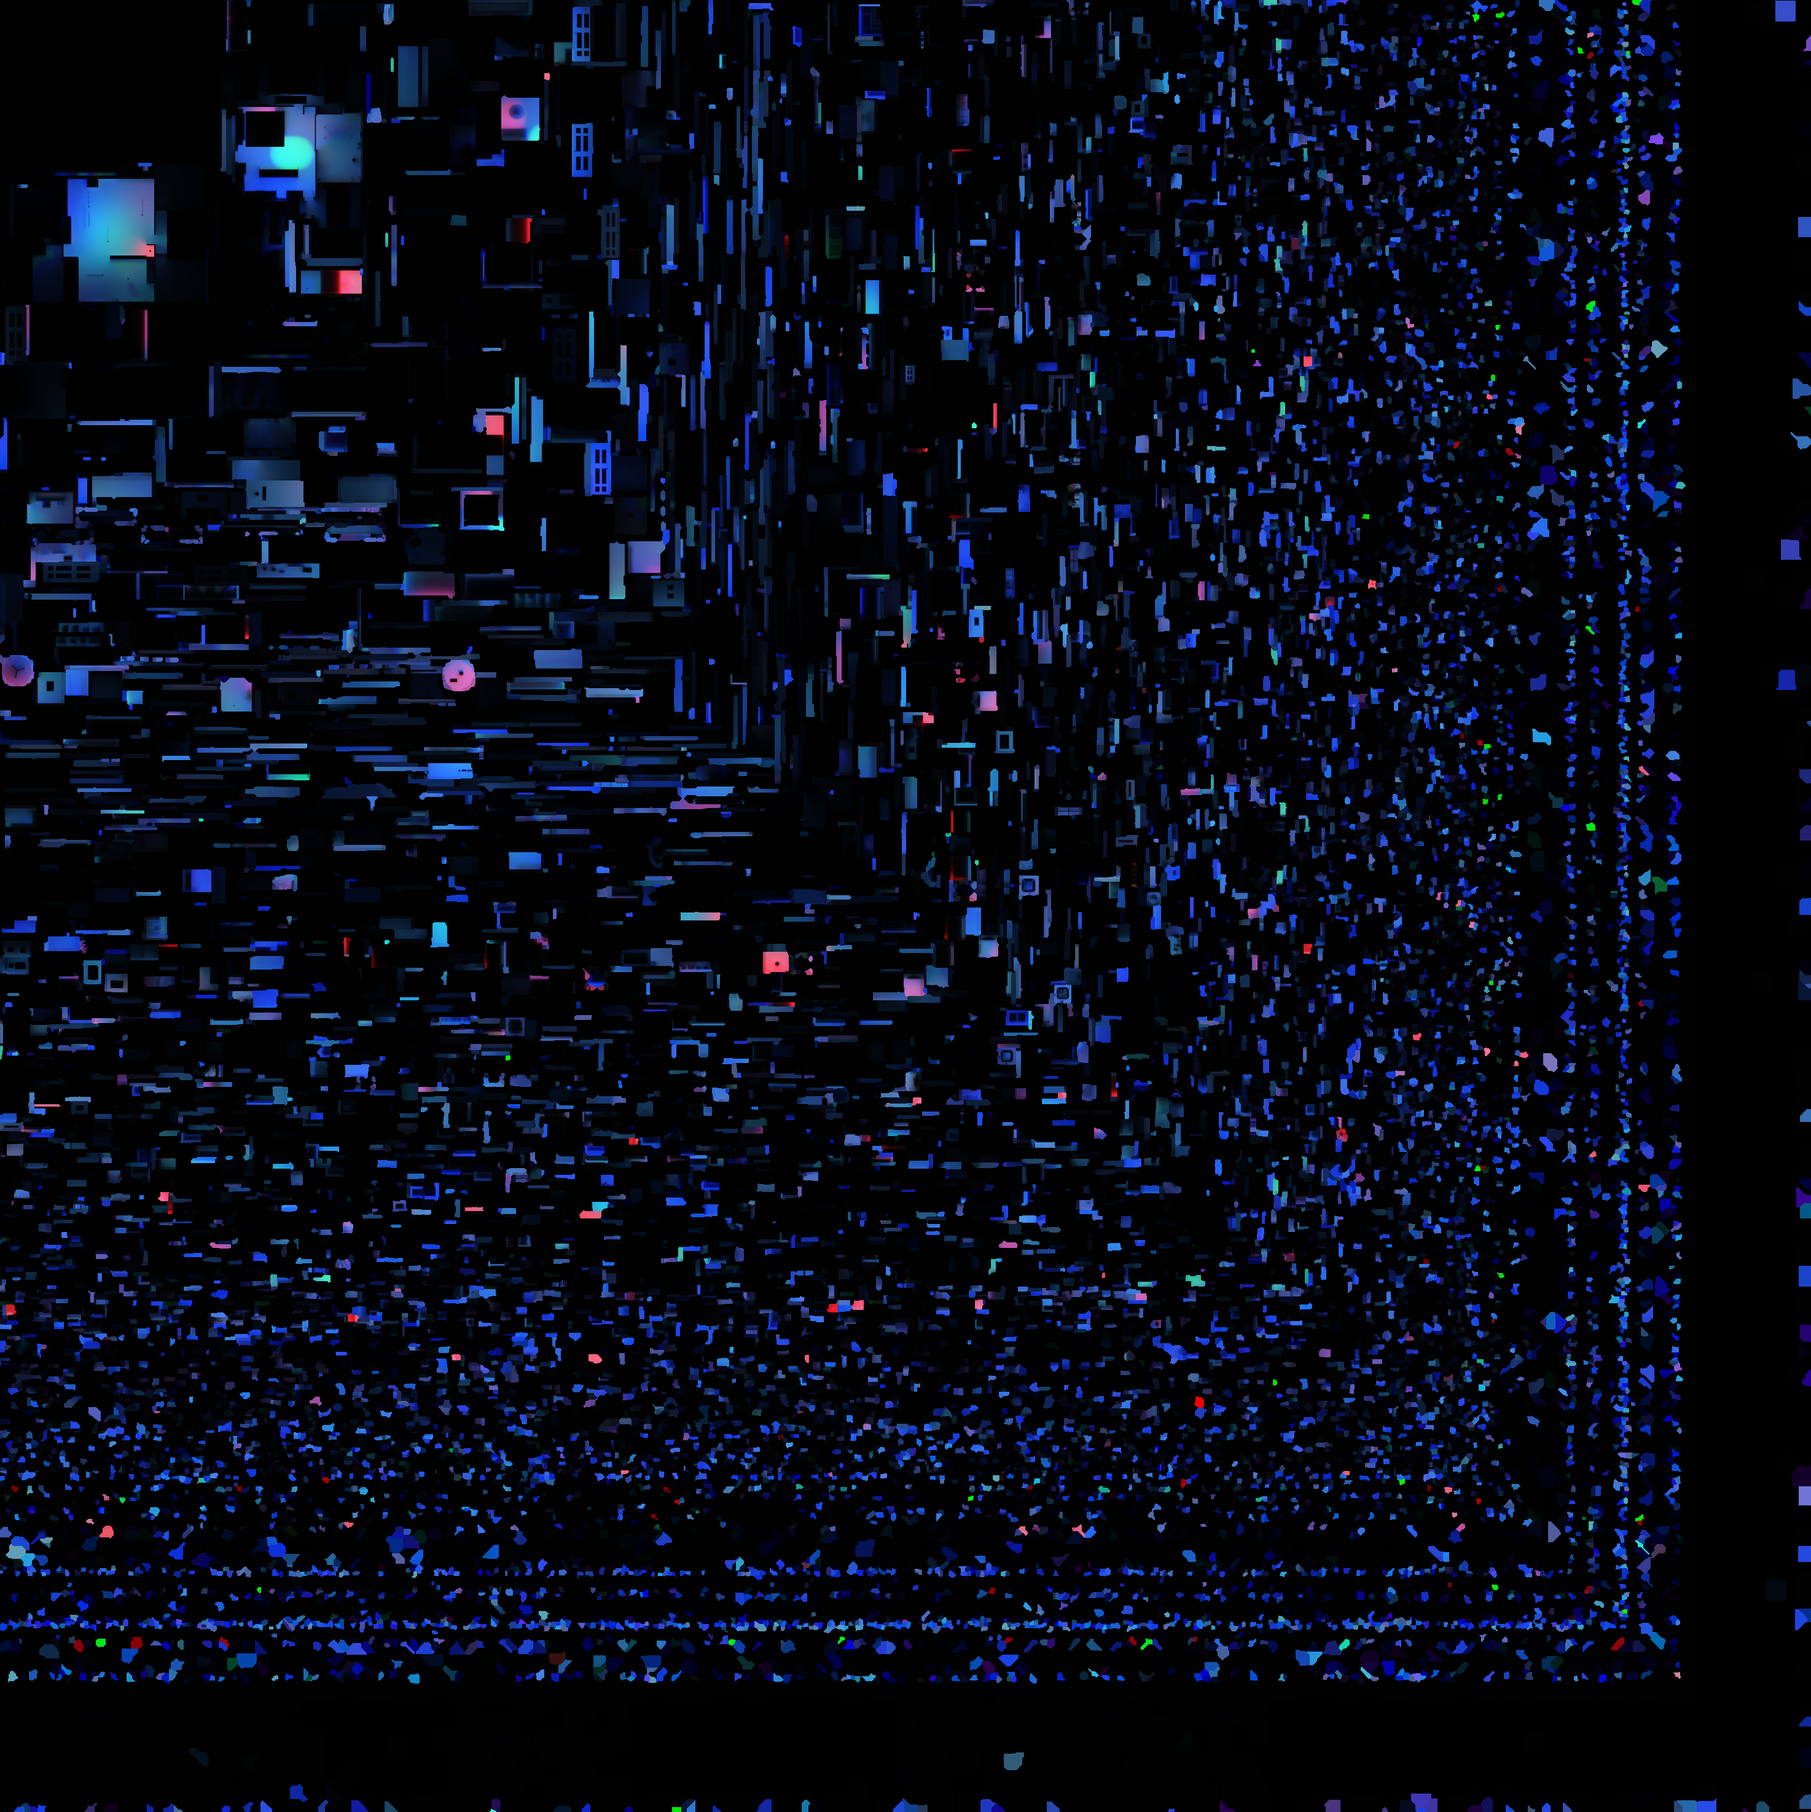
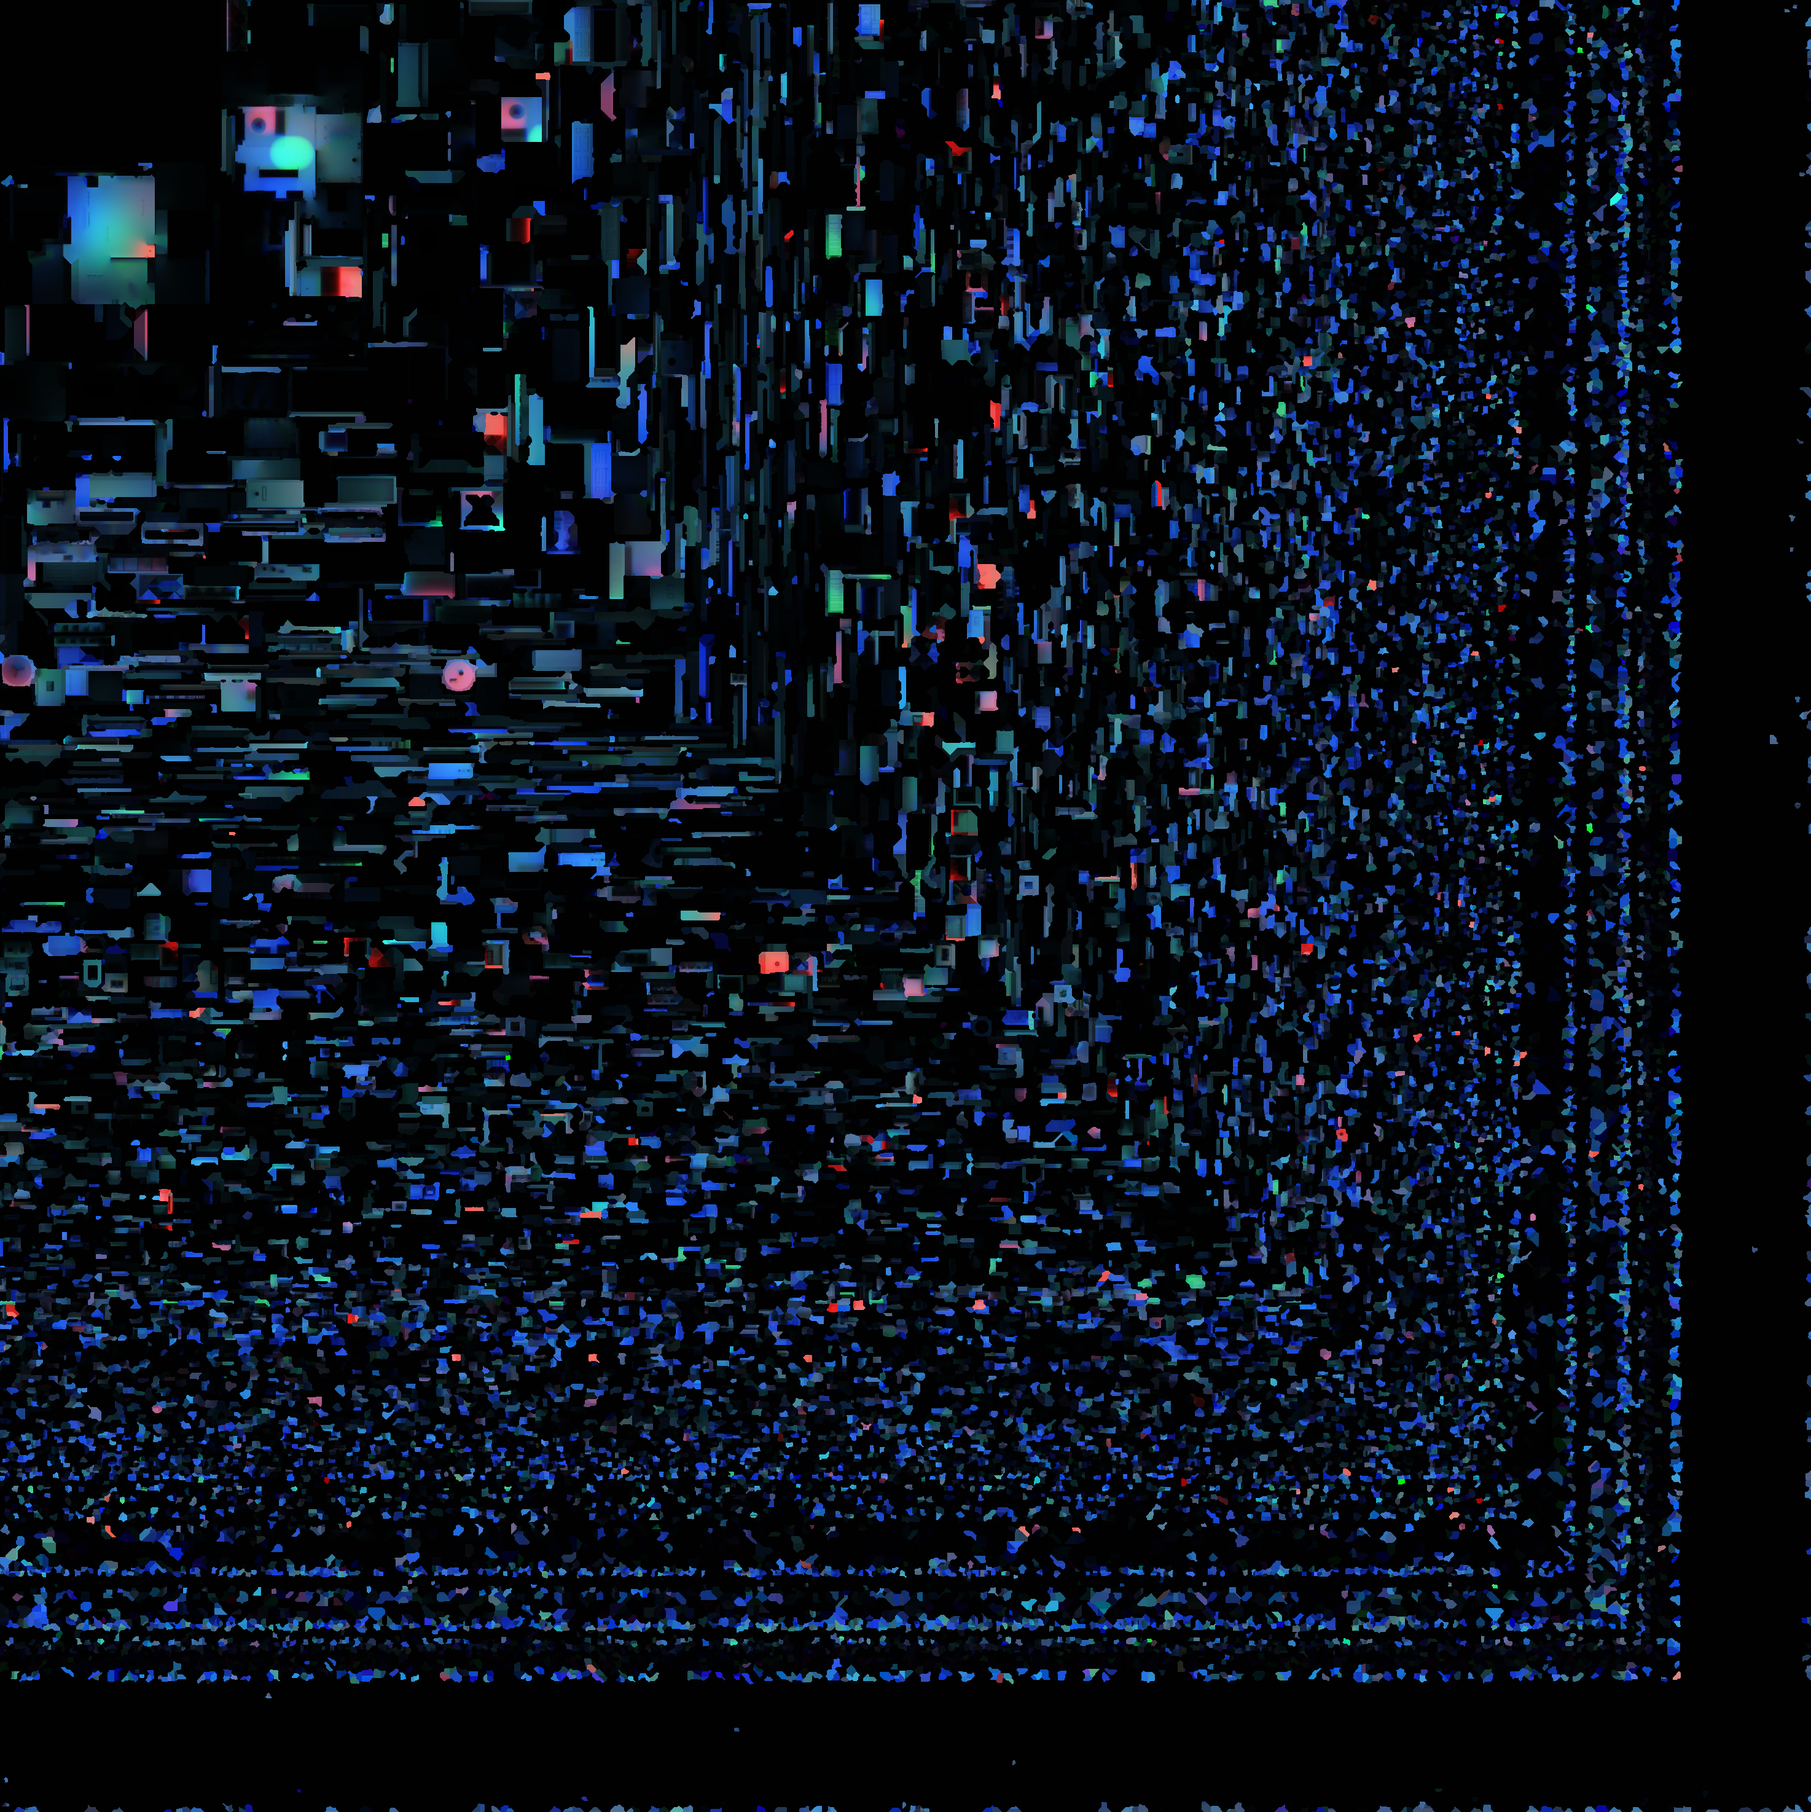
Fill the lightmaps' bake holes: no more black slits on the sofa and pillows.
Thin UV triangles and geometry buried in other meshes baked no samples. The composite now finds those texels and fills them from nearby world-space neighbours, for every time slot and lamp group. The local server also accepts the ~70 lightmap requests the page opens at once.

diff --git a/bake/scripts/composite_v2.py b/bake/scripts/composite_v2.py
@@ -1,4 +1,5 @@
-# v2 merge: per layer, take each group's covered texels, denoise chart by chart (denoise.py), grow charts into the
+# v2 merge: per layer, take each group's covered texels, fill the chart texels without light from the surface around
+# them (the bake's holes and skipped texels, denoise.world_fill), denoise chart by chart (denoise.py), grow charts into the
 # padding; then the time-slot layer = sky + sun bounce, and the lamps layer. Writes linear EXRs (reference)
 # and RGBM arrays for the web (encode_png.py turns them into PNGs).
 # RGBM with a square-root curve for precision in the dark: stored = sqrt(rgb / RANGE) / m, m = max channel (alpha).
@@ -18,35 +19,53 @@ def load(path):
 def save_exr(rgb, path):
     h, w, _ = rgb.shape; im = bpy.data.images.new('out', w, h, alpha=True, float_buffer=True); im.colorspace_settings.name = 'Non-Color'
     im.pixels.foreach_set(np.concatenate([rgb, np.ones((h, w, 1), np.float32)], -1).ravel()); im.filepath_raw = path; im.file_format = 'OPEN_EXR'; im.save(); bpy.data.images.remove(im)
-def merged(layer):
-    t0 = time.time(); acc = cov = None
+def raw(layer):
+    acc = cov = None
     for p in sorted(glob.glob(os.path.join(folder, f'{layer}_g*.exr'))):
         a = load(p); m = a[..., 3] > 0.5
         if acc is None: acc = np.zeros_like(a[..., :3]); cov = np.zeros(m.shape, bool)
         acc[m] = a[m, :3]; cov |= m
-    out, filled = acc, cov.copy()
-    # chart-aware denoising (denoise.py; CROTON_DENOISE=0 turns it off): needs the guides rasterised from the scene
-    guides = os.environ.get('CROTON_GUIDES', os.path.join(os.path.dirname(folder.rstrip('/')), 'guides.npz'))
-    if os.environ.get('CROTON_DENOISE') != '0' and os.path.exists(guides):
-        global G
-        if G is None: G = denoise.load_guides(guides)
+    return acc, cov
+def merged(layer, acc, valid, dark):
+    # valid: the texels holding light (the bake's coverage less its holes, plus the world fill)
+    t0 = time.time(); out, filled = acc, valid.copy()
+    if G is not None:
         kw = dict(rel=1e-4) if layer == 'lamps' else {}   # lamp pools keep their falloff; soft sky / sun bounce smooth out more
-        out, set_ = denoise.denoise(out, cov, G, log=lambda m: print(layer, m, flush=True), **kw); filled |= set_
+        out, set_ = denoise.denoise(out, valid, G, log=lambda m: print(layer, m, flush=True), **kw); filled |= set_
     else: print(layer, 'not denoised')
+    out[dark] = 0; filled |= dark   # buried holes stay black
     # grow the charts into the padding (bilinear filtering and mipmaps reach into it)
     for _ in range(16):
         s = np.zeros_like(out); n = np.zeros(filled.shape, np.float32)
         for dy, dx in ((1, 0), (-1, 0), (0, 1), (0, -1), (1, 1), (1, -1), (-1, 1), (-1, -1)):
             sh = np.roll(np.roll(filled, dy, 0), dx, 1); s += np.roll(np.roll(out * filled[..., None], dy, 0), dx, 1) * sh[..., None]; n += sh
         grow = (~filled) & (n > 0); out[grow] = s[grow] / n[grow][:, None]; filled |= grow
-    print(f'{layer}: coverage {cov.mean():.3f}, mean {out[cov].mean(0).round(4).tolist()}, {time.time() - t0:.0f} s', flush=True)
-    if layer == 'sky': np.save(os.path.join(dst, 'coverage.npy'), cov[::-1])   # top-first, for downscale_atlas.py --mask
+    print(f'{layer}: valid {valid.mean():.3f}, mean {out[valid].mean(0).round(4).tolist()}, {time.time() - t0:.0f} s', flush=True)
     return np.clip(out, 0, None)
+# chart-aware denoising and filling (denoise.py; CROTON_DENOISE=0 turns both off): needs the guides rasterised from the scene
+guides = os.environ.get('CROTON_GUIDES', os.path.join(os.path.dirname(folder.rstrip('/')), 'guides.npz'))
+if os.environ.get('CROTON_DENOISE') != '0' and os.path.exists(guides): G = denoise.load_guides(guides)
+names = ('sky', 'sunind') + (() if lamps_from else ('lamps',))
+raws = {name: raw(name) for name in names}; cov = raws['sky'][1]
+print(f'coverage {cov.mean():.3f}', flush=True)
+valid = cov; dark = np.zeros(cov.shape, bool)
+if G is not None:
+    # Texels without light: the bake's holes (black in sky and sun bounce: inside other geometry) and the chart texels its
+    # rasteriser skipped. Both take the light of the surface around them, found in world space (denoise.world_fill).
+    hole = denoise.holes(cov, [raws['sky'][0], raws['sunind'][0]]); valid = cov & ~hole
+    filled = denoise.world_fill([raws[name][0] for name in names], valid, G, log=lambda m: print(m, flush=True))
+    # holes with no lit surface facing the same way within reach are buried: nothing samples them, they stay black (as
+    # empty atlas does, and compress like it)
+    dark = hole & ~filled; valid = valid | filled
+    print(f'holes {hole.sum()} texels ({hole.sum() / max(cov.sum(), 1):.3f} of the covered), {dark.sum()} of them buried', flush=True)
+    np.save(os.path.join(dst, 'holes.npy'), hole[::-1])   # top-first, for lamp_groups_pack.py merge
+np.save(os.path.join(dst, 'coverage.npy'), valid[::-1])   # top-first, for downscale_atlas.py --mask and the lamp group pack
 def rgbm(rgb):
     c = np.sqrt(np.clip(rgb / RANGE, 0, 1)); m = np.clip(c.max(-1, keepdims=True), 1 / 255, 1); m = np.ceil(m * 255) / 255
     enc = np.concatenate([np.clip(c / m, 0, 1), m], -1)
     return np.round(enc * 255).astype(np.uint8)[::-1]   # top row first, like an image file
-slot = merged('sky') + merged('sunind'); lamps = load(os.path.join(lamps_from, 'lamps.exr'))[..., :3] if lamps_from else merged('lamps')
+slot = merged('sky', raws.pop('sky')[0], valid, dark) + merged('sunind', raws.pop('sunind')[0], valid, dark)
+lamps = load(os.path.join(lamps_from, 'lamps.exr'))[..., :3] if lamps_from else merged('lamps', raws.pop('lamps')[0], valid, dark)
 save_exr(slot, os.path.join(dst, 'slot.exr')); save_exr(lamps, os.path.join(dst, 'lamps.exr'))
 np.save(os.path.join(dst, 'slot_rgbm.npy'), rgbm(slot)); np.save(os.path.join(dst, 'lamps_rgbm.npy'), rgbm(lamps))
 # the web format: 8-bit RGB through a tone curve, stored = sqrt(x / (x + K)), best relative precision around x = K, so K

diff --git a/bake/scripts/denoise.py b/bake/scripts/denoise.py
@@ -141,7 +141,10 @@ def atrous(cur, valid, var, G, levels, sigma_x, sigma_l, rel, sigma_n=64.0, plan
                 dp = shifted(pos, dy, dx) - pos; d2 = (dp * dp).sum(0); dpl = (nrm * dp).sum(0).abs()
                 wgt = h[i] * h[j] * m * (nrm * shifted(nrm, dy, dx)).sum(0).clamp_min(0) ** sigma_n * (-d2 / (2 * sigma_x ** 2) - dpl / (plane * st * ts + 1e-6)).exp()
                 q = shifted(cur, dy, dx); lq = lum(q); vq = shifted(var, dy, dx)   # symmetric, so bright and dark texels trade energy evenly
-                wgt = wgt * (-(lq - lp).abs() / (sigma_l * (0.5 * (var + vq)).clamp_min(0).sqrt() + rel * 0.5 * (lp + lq).abs() + 1e-6)).exp()
+                agree = (-(lq - lp).abs() / (sigma_l * (0.5 * (var + vq)).clamp_min(0).sqrt() + rel * 0.5 * (lp + lq).abs() + 1e-6)).exp()
+                # a texel without a value yet has nothing to agree with: its placeholder 0 would pull the fill towards the
+                # darkest neighbours (black slits through thin charts), so it takes its chart's neighbours unweighted
+                wgt = wgt * torch.where(valid, agree, 1.0)
                 if dy == dx == 0: wgt = torch.where(valid, wgt, 0)
                 acc += wgt * q; wsum += wgt; vacc += wgt * wgt * vq
         ok = wsum > 0
@@ -168,5 +171,47 @@ def denoise(rgb, cov, G, levels=6, sigma_x=0.4, sigma_l=4.5, rel=0.08, log=print
     cur, fil = atrous(col, valid, var, G, levels, sigma_x, sigma_l, rel, log=log, t0=t0)
     out = np.array(rgb, np.float32, copy=True); m = ((chart >= 0) & fil).cpu().numpy(); out[m] = cur.permute(1, 2, 0).cpu().numpy()[m]
     return out, m
+
+def holes(cov, layers, isolated=2):
+    """The texels a bake holds no usable light for: covered but black in every given layer (sky and sun bounce: any
+    surface the visitor can see gets some). They lie inside other geometry: piping sunk into an arm, a cushion pressed
+    into the frame, overlapping boxes; their zeros would bleed into the visible part of the same few texels. A lit texel
+    with at most `isolated` lit texels in its 5x5 window is light leaking through a crack into such a surface: a hole too."""
+    from scipy.ndimage import convolve
+    dark = cov.copy()
+    for a in layers: dark &= ~np.any(a > 0, axis=-1)
+    lit = cov & ~dark
+    return dark | (lit & (convolve(lit.astype(np.uint8), np.ones((5, 5), np.uint8), mode='constant') <= isolated))
+
+def world_fill(layers, valid, G, k=16, reach=3.0, min_dot=0.5, chunk=1 << 19, log=print):
+    """Fill every chart texel that has no valid value (the bake's rasteriser skips texel centres in thin UV triangles:
+    piping, pinched edges, pole fans; or it was a hole, see holes()) from the valid texels nearest to it on the SURFACE,
+    by the guides' world positions and normals, within reach x its own texel size; a chart neighbour in the atlas is
+    usually an unrelated object. layers: (H, W, 3) arrays in Blender row order, filled in place. Returns the mask of
+    texels filled. Texels with no valid texel near enough facing the same way (enclosed surfaces) stay as they were."""
+    from scipy.spatial import cKDTree
+    t0 = time.time(); H, W = G['H'], G['W']
+    chart = G['chart'].reshape(-1).cpu().numpy()
+    v = np.flatnonzero(valid.reshape(-1) & (chart >= 0)); q = np.flatnonzero(~valid.reshape(-1) & (chart >= 0))
+    filled = np.zeros(H * W, bool)
+    if not len(v) or not len(q): return filled.reshape(H, W)
+    pos = G['pos'].permute(1, 2, 0).reshape(-1, 3); nrm = G['nrm'].permute(1, 2, 0).reshape(-1, 3); ts = G['tsize'].reshape(-1)
+    pv = pos[torch.as_tensor(v, device=pos.device)].cpu().numpy().astype(np.float64)
+    nv = nrm[torch.as_tensor(v, device=pos.device)].cpu().numpy()
+    tree = cKDTree(pv)
+    flat = [a.reshape(-1, 3) for a in layers]
+    if not all(np.shares_memory(f, a) for f, a in zip(flat, layers)): raise ValueError('world_fill fills contiguous arrays in place')
+    for s in range(0, len(q), chunk):
+        qi = q[s:s + chunk]; ix = torch.as_tensor(qi, device=pos.device)
+        pq = pos[ix].cpu().numpy().astype(np.float64); nq = nrm[ix].cpu().numpy(); r = reach * np.maximum(ts[ix].cpu().numpy(), 1e-3)
+        d, j = tree.query(pq, k=k, distance_upper_bound=float(r.max()), workers=-1)
+        ok = np.isfinite(d) & (d <= r[:, None]); j = np.where(ok, j, 0)
+        dot = np.einsum('qc,qkc->qk', nq, nv[j])
+        w = np.where(ok & (dot > min_dot), np.exp(-(d / (0.5 * r[:, None])) ** 2) * dot * dot, 0).astype(np.float32)
+        sw = w.sum(1); f = sw > 0; src = v[j[f]]; wf = w[f] / sw[f, None]
+        for a in flat: a[qi[f]] = np.einsum('qk,qkc->qc', wf, a[src])
+        filled[qi[f]] = True
+    log(f'world fill: {len(q)} chart texels without light, {filled.sum()} filled from the surface around them, {time.time() - t0:.0f} s')
+    return filled.reshape(H, W)
 
 if __name__ == '__main__' and sys.argv[1] == 'guides': build_guides(*sys.argv[2:5])

diff --git a/bake/scripts/lamp_groups_pack.py b/bake/scripts/lamp_groups_pack.py
@@ -1,8 +1,8 @@
 # Switchable baked lamps, step 3: merge each lamp group's bakes and pack every group's light for the site.
 #   merge (Blender's Python, CROTON_SITE_PACKAGES for numpy/torch): one group folder's lamps_gKK.exr -> lum.npy
 #     blender -b --python-exit-code 1 -P scripts/lamp_groups_pack.py -- merge <bakes>/gNN [guides.npz]
-#     As composite_v2.py's lamps layer: covered texels of every object group, the chart-aware denoiser (lamp pools keep
-#     their falloff), charts grown 16 texels into the padding. Lamp light is warm white (3000 K), so a group keeps its
+#     As composite_v2.py's lamps layer: covered texels of every object group, the world fill (CROTON_HOLES: the slot
+#     composite's holes.npy), the chart-aware denoiser (lamp pools keep their falloff), charts grown 16 texels into the padding. Lamp light is warm white (3000 K), so a group keeps its
 #     luminance (Rec. 709) per texel and one colour (its mean lit chromaticity, luminance 1) in color.json.
 #   pack (any Python with numpy + Pillow): every group -> lampgroups/ for web/assets/lightmaps/v2/
 #     python scripts/lamp_groups_pack.py pack <groups.json> <bakes> <coverage.npy> <out> [--probes scene/probes.json]
@@ -29,12 +29,20 @@ def merge(folder, guides=None):
         a = load(p); m = a[..., 3] > 0.5
         if acc is None: acc = np.zeros_like(a[..., :3]); cov = np.zeros(m.shape, bool)
         acc[m] = a[m, :3]; cov |= m; del a
-    out, filled = acc, cov.copy()
+    out, valid = acc, cov
     guides = guides or os.environ.get('CROTON_GUIDES')
     if guides and os.path.exists(guides) and os.environ.get('CROTON_DENOISE') != '0':
         import denoise
-        out, set_ = denoise.denoise(out, cov, denoise.load_guides(guides), log=lambda m: print(m, flush=True), rel=1e-4); filled |= set_
-    else: print('not denoised')
+        G = denoise.load_guides(guides)
+        # as composite_v2.py: the slot bake's holes (holes.npy, top-first; lamp light alone cannot tell a hole from a
+        # dark corner) and the texels the rasteriser skipped take the light of the surface around them
+        holes = os.environ.get('CROTON_HOLES'); hole = np.zeros(cov.shape, bool)
+        if holes: hole = cov & np.load(holes)[::-1]; valid = cov & ~hole
+        filled = denoise.world_fill([out], valid, G, log=lambda m: print(m, flush=True))
+        dark = hole & ~filled; valid = valid | filled   # buried holes stay black (composite_v2.py)
+        out, set_ = denoise.denoise(out, valid, G, log=lambda m: print(m, flush=True), rel=1e-4); filled = valid | set_ | dark
+        out[dark] = 0   # buried holes stay black
+    else: print('not denoised'); filled = cov.copy()
     for _ in range(16):
         s = np.zeros_like(out); n = np.zeros(filled.shape, np.float32)
         for dy, dx in ((1, 0), (-1, 0), (0, 1), (0, -1), (1, 1), (1, -1), (-1, 1), (-1, -1)):

diff --git a/web/tools/serve.py b/web/tools/serve.py
@@ -13,4 +13,6 @@ class NoCache(http.server.SimpleHTTPRequestHandler):
 
 port = int(sys.argv[1]) if len(sys.argv) > 1 else 8780
 root = os.path.join(os.path.dirname(os.path.abspath(__file__)), '..')
-http.server.ThreadingHTTPServer(('127.0.0.1', port), partial(NoCache, directory=root)).serve_forever()
+class Server(http.server.ThreadingHTTPServer):
+    request_queue_size = 256   # the page opens ~70 lightmap requests at once; the default backlog of 5 drops connections
+Server(('127.0.0.1', port), partial(NoCache, directory=root)).serve_forever()
